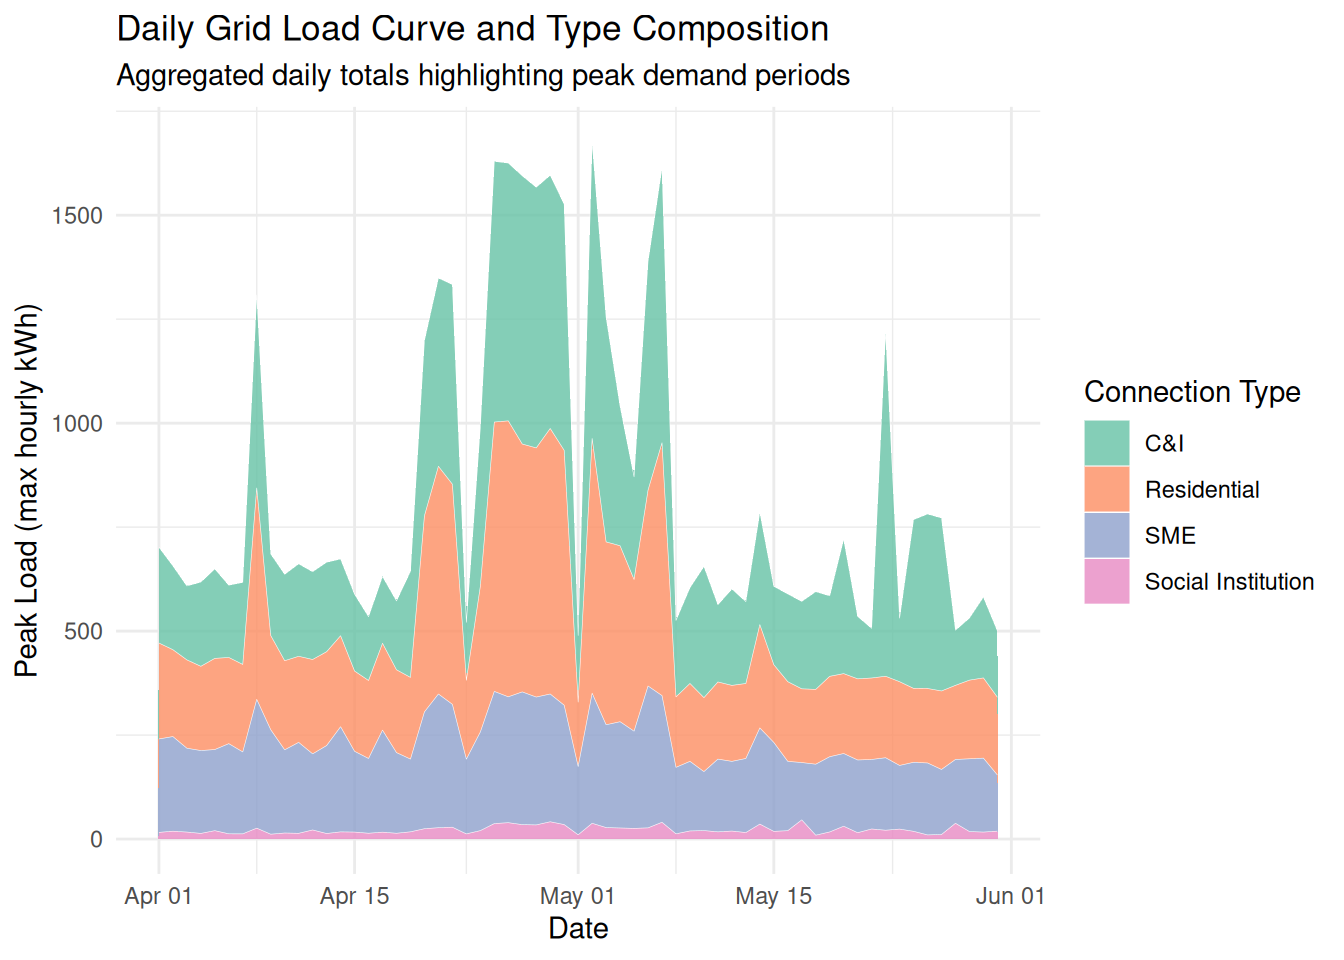
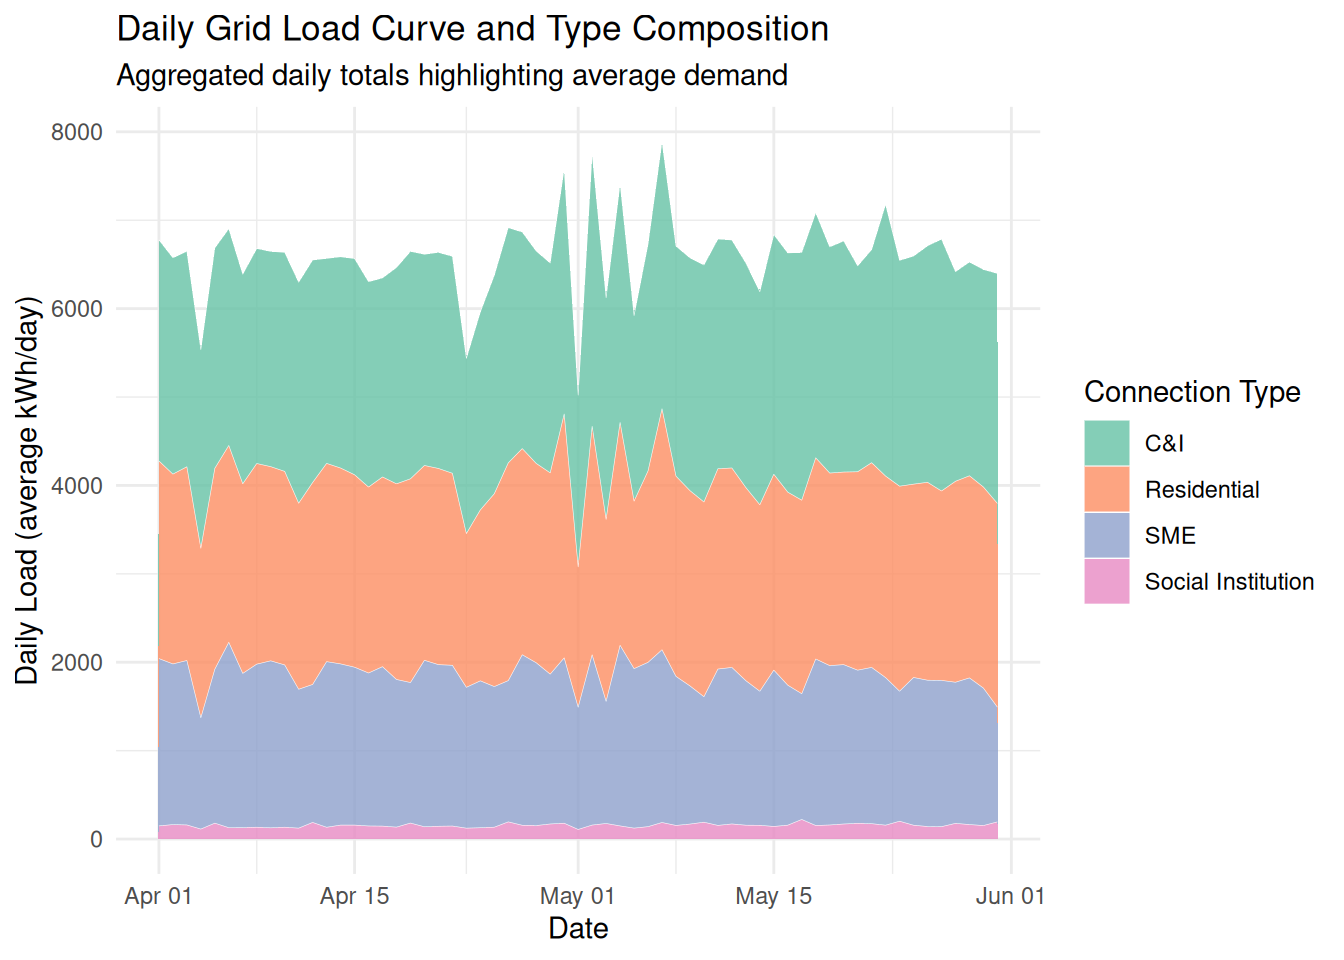
Finished written portion to go along with figures.

diff --git a/docs/index.html b/docs/index.html
@@ -547,7 +547,7 @@ $ `Daily kWh`          &lt;dbl&gt; 107.9200000, 0.0000000, 331.7800000, 333.8200
 <span id="cb12-7"><a href="#cb12-7" aria-hidden="true" tabindex="-1"></a>  <span class="fu">labs</span>(<span class="at">title =</span> <span class="st">"Small Medium Enterprises"</span>, <span class="at">x =</span> <span class="st">"Type"</span>, <span class="at">y =</span> <span class="st">"Daily kWh"</span>) <span class="sc">+</span></span>
 <span id="cb12-8"><a href="#cb12-8" aria-hidden="true" tabindex="-1"></a>  <span class="fu">theme_minimal</span>()<span class="sc">+</span></span>
 <span id="cb12-9"><a href="#cb12-9" aria-hidden="true" tabindex="-1"></a>  <span class="fu">theme</span>(<span class="at">axis.text.x =</span> <span class="fu">element_text</span>(<span class="at">angle =</span> <span class="dv">45</span>, <span class="at">hjust =</span> <span class="dv">1</span>) </span>
-<span id="cb12-10"><a href="#cb12-10" aria-hidden="true" tabindex="-1"></a>  )</span></code></pre></div><button title="Copy to Clipboard" class="code-copy-button"><i class="bi"></i></button></div>
+<span id="cb12-10"><a href="#cb12-10" aria-hidden="true" tabindex="-1"></a>  ) </span></code></pre></div><button title="Copy to Clipboard" class="code-copy-button"><i class="bi"></i></button></div>
 <div class="cell-output-display">
 <div>
 <figure class="figure">
@@ -617,7 +617,7 @@ $ `Daily kWh`          &lt;dbl&gt; 107.9200000, 0.0000000, 331.7800000, 333.8200
 <span id="cb15-16"><a href="#cb15-16" aria-hidden="true" tabindex="-1"></a>  <span class="fu">geom_text</span>(</span>
 <span id="cb15-17"><a href="#cb15-17" aria-hidden="true" tabindex="-1"></a>    <span class="fu">aes</span>(<span class="at">y =</span> label_pos, <span class="at">label =</span> <span class="fu">percent</span>(percentage, <span class="at">accuracy =</span> <span class="fl">0.1</span>)), </span>
 <span id="cb15-18"><a href="#cb15-18" aria-hidden="true" tabindex="-1"></a>    <span class="at">size =</span> <span class="dv">4</span>, </span>
-<span id="cb15-19"><a href="#cb15-19" aria-hidden="true" tabindex="-1"></a>    <span class="at">color =</span> <span class="st">"black"</span></span>
+<span id="cb15-19"><a href="#cb15-19" aria-hidden="true" tabindex="-1"></a>    <span class="at">color =</span> <span class="st">"black"</span>, </span>
 <span id="cb15-20"><a href="#cb15-20" aria-hidden="true" tabindex="-1"></a>  ) <span class="sc">+</span></span>
 <span id="cb15-21"><a href="#cb15-21" aria-hidden="true" tabindex="-1"></a>  </span>
 <span id="cb15-22"><a href="#cb15-22" aria-hidden="true" tabindex="-1"></a>  <span class="co"># Clean up the background grid and axis lines from standard ggplot</span></span>
@@ -630,7 +630,7 @@ $ `Daily kWh`          &lt;dbl&gt; 107.9200000, 0.0000000, 331.7800000, 333.8200
 <span id="cb15-29"><a href="#cb15-29" aria-hidden="true" tabindex="-1"></a>  <span class="fu">theme</span>(</span>
 <span id="cb15-30"><a href="#cb15-30" aria-hidden="true" tabindex="-1"></a>    <span class="at">plot.title =</span> <span class="fu">element_text</span>(<span class="at">face =</span> <span class="st">"bold"</span>, <span class="at">hjust =</span> <span class="fl">0.5</span>, <span class="at">size =</span> <span class="dv">14</span>),</span>
 <span id="cb15-31"><a href="#cb15-31" aria-hidden="true" tabindex="-1"></a>    <span class="at">plot.subtitle =</span> <span class="fu">element_text</span>(<span class="at">hjust =</span> <span class="fl">0.5</span>, <span class="at">color =</span> <span class="st">"gray40"</span>)</span>
-<span id="cb15-32"><a href="#cb15-32" aria-hidden="true" tabindex="-1"></a>  )</span></code></pre></div><button title="Copy to Clipboard" class="code-copy-button"><i class="bi"></i></button></div>
+<span id="cb15-32"><a href="#cb15-32" aria-hidden="true" tabindex="-1"></a>  ) </span></code></pre></div><button title="Copy to Clipboard" class="code-copy-button"><i class="bi"></i></button></div>
 <div class="cell-output-display">
 <div>
 <figure class="figure">
@@ -639,21 +639,70 @@ $ `Daily kWh`          &lt;dbl&gt; 107.9200000, 0.0000000, 331.7800000, 333.8200
 </div>
 </div>
 </div>
-<p>Even though C&amp;I have the largest daily kWh usage, SME accounts for the largest share of energy use, followed by Residential and C&amp;I based on the sheer number of households and SMEs compared to the larger industrial partners.</p>
-<p>It’s also important to understand the peak kWh values to right-size the grid. This comes from the max kWh/h values, taking the maximum load during the highest use point during the day. Let’s first group by day, then sum the value per day and see the composition from different types. This will give insights for the peak rated value for the grid (kWp) and potential back-up sources like diesel gen-sets and hydropower partnerships.</p>
+<p>Even though C&amp;I have the largest daily kWh usage, SME accounts for the largest share of energy use, followed by Residential and C&amp;I based on the sheer number of households and SMEs compared to the larger industrial partners. Let’s create one more stacked chart to examine the daily kWh trends over time by type.</p>
 <div class="cell">
 <div class="code-copy-outer-scaffold"><div class="sourceCode cell-code" id="cb16"><pre class="sourceCode r code-with-copy"><code class="sourceCode r"><span id="cb16-1"><a href="#cb16-1" aria-hidden="true" tabindex="-1"></a><span class="co"># Calculate total max consumption during the peak load as a worst case</span></span>
-<span id="cb16-2"><a href="#cb16-2" aria-hidden="true" tabindex="-1"></a>daily_composition <span class="ot">&lt;-</span> summary_by_group <span class="sc">%&gt;%</span></span>
+<span id="cb16-2"><a href="#cb16-2" aria-hidden="true" tabindex="-1"></a>daily_total_composition <span class="ot">&lt;-</span> summary_by_group <span class="sc">%&gt;%</span></span>
 <span id="cb16-3"><a href="#cb16-3" aria-hidden="true" tabindex="-1"></a>  <span class="co"># Keep only the rows where the peak load value is not zero</span></span>
-<span id="cb16-4"><a href="#cb16-4" aria-hidden="true" tabindex="-1"></a>  <span class="fu">filter</span>(kWh_avg_max <span class="sc">!=</span> <span class="dv">0</span>) <span class="sc">%&gt;%</span></span>
+<span id="cb16-4"><a href="#cb16-4" aria-hidden="true" tabindex="-1"></a>  <span class="fu">filter</span>(kWh_per_day <span class="sc">!=</span> <span class="dv">0</span>) <span class="sc">%&gt;%</span></span>
 <span id="cb16-5"><a href="#cb16-5" aria-hidden="true" tabindex="-1"></a>  <span class="fu">group_by</span>(Date, customer_type) <span class="sc">%&gt;%</span></span>
 <span id="cb16-6"><a href="#cb16-6" aria-hidden="true" tabindex="-1"></a>  <span class="fu">summarise</span>(</span>
-<span id="cb16-7"><a href="#cb16-7" aria-hidden="true" tabindex="-1"></a>    <span class="at">Max_kWh_peak =</span> <span class="fu">sum</span>(kWh_avg_max, <span class="at">na.rm =</span> <span class="cn">TRUE</span>),</span>
+<span id="cb16-7"><a href="#cb16-7" aria-hidden="true" tabindex="-1"></a>    <span class="at">Total_kWh_avg =</span> <span class="fu">sum</span>(kWh_per_day, <span class="at">na.rm =</span> <span class="cn">TRUE</span>),</span>
 <span id="cb16-8"><a href="#cb16-8" aria-hidden="true" tabindex="-1"></a>    <span class="at">.groups =</span> <span class="st">"drop"</span></span>
 <span id="cb16-9"><a href="#cb16-9" aria-hidden="true" tabindex="-1"></a>  )</span>
 <span id="cb16-10"><a href="#cb16-10" aria-hidden="true" tabindex="-1"></a></span>
-<span id="cb16-11"><a href="#cb16-11" aria-hidden="true" tabindex="-1"></a><span class="co"># Preview the daily kWh peak values for each type</span></span>
-<span id="cb16-12"><a href="#cb16-12" aria-hidden="true" tabindex="-1"></a><span class="fu">print</span>(daily_composition)</span></code></pre></div><button title="Copy to Clipboard" class="code-copy-button"><i class="bi"></i></button></div>
+<span id="cb16-11"><a href="#cb16-11" aria-hidden="true" tabindex="-1"></a><span class="co"># Preview the daily kWh values for each type</span></span>
+<span id="cb16-12"><a href="#cb16-12" aria-hidden="true" tabindex="-1"></a><span class="fu">print</span>(daily_total_composition)</span></code></pre></div><button title="Copy to Clipboard" class="code-copy-button"><i class="bi"></i></button></div>
+<div class="cell-output cell-output-stdout">
+<pre><code># A tibble: 244 × 3
+   Date                customer_type      Total_kWh_avg
+   &lt;dttm&gt;              &lt;chr&gt;                      &lt;dbl&gt;
+ 1 2026-04-01 00:00:00 C&amp;I                        2501.
+ 2 2026-04-01 00:00:00 Residential                2235.
+ 3 2026-04-01 00:00:00 SME                        1893.
+ 4 2026-04-01 00:00:00 Social Institution          149.
+ 5 2026-04-02 00:00:00 C&amp;I                        2447.
+ 6 2026-04-02 00:00:00 Residential                2147.
+ 7 2026-04-02 00:00:00 SME                        1817.
+ 8 2026-04-02 00:00:00 Social Institution          164.
+ 9 2026-04-03 00:00:00 C&amp;I                        2438.
[phone redacted]:00:00 Residential                2191.
+# ℹ 234 more rows</code></pre>
+</div>
+<div class="code-copy-outer-scaffold"><div class="sourceCode cell-code" id="cb18"><pre class="sourceCode r code-with-copy"><code class="sourceCode r"><span id="cb18-1"><a href="#cb18-1" aria-hidden="true" tabindex="-1"></a><span class="co"># Plot the chart with daily composition separated by type</span></span>
+<span id="cb18-2"><a href="#cb18-2" aria-hidden="true" tabindex="-1"></a><span class="fu">ggplot</span>(daily_total_composition, <span class="fu">aes</span>(<span class="at">x =</span> Date, <span class="at">y =</span> Total_kWh_avg, <span class="at">fill =</span> customer_type)) <span class="sc">+</span></span>
+<span id="cb18-3"><a href="#cb18-3" aria-hidden="true" tabindex="-1"></a>  <span class="fu">geom_area</span>(<span class="at">alpha =</span> <span class="fl">0.8</span>, <span class="at">color =</span> <span class="st">"white"</span>, <span class="at">linewidth =</span> <span class="fl">0.1</span>) <span class="sc">+</span></span>
+<span id="cb18-4"><a href="#cb18-4" aria-hidden="true" tabindex="-1"></a>  <span class="fu">labs</span>(</span>
+<span id="cb18-5"><a href="#cb18-5" aria-hidden="true" tabindex="-1"></a>    <span class="at">title =</span> <span class="st">"Daily Grid Load Curve and Type Composition"</span>,</span>
+<span id="cb18-6"><a href="#cb18-6" aria-hidden="true" tabindex="-1"></a>    <span class="at">subtitle =</span> <span class="st">"Aggregated daily totals highlighting average demand"</span>,</span>
+<span id="cb18-7"><a href="#cb18-7" aria-hidden="true" tabindex="-1"></a>    <span class="at">x =</span> <span class="st">"Date"</span>,</span>
+<span id="cb18-8"><a href="#cb18-8" aria-hidden="true" tabindex="-1"></a>    <span class="at">y =</span> <span class="st">"Daily Load (average kWh/day)"</span>,</span>
+<span id="cb18-9"><a href="#cb18-9" aria-hidden="true" tabindex="-1"></a>    <span class="at">fill =</span> <span class="st">"Connection Type"</span></span>
+<span id="cb18-10"><a href="#cb18-10" aria-hidden="true" tabindex="-1"></a>  ) <span class="sc">+</span></span>
+<span id="cb18-11"><a href="#cb18-11" aria-hidden="true" tabindex="-1"></a>  <span class="fu">theme_minimal</span>() <span class="sc">+</span></span>
+<span id="cb18-12"><a href="#cb18-12" aria-hidden="true" tabindex="-1"></a>  <span class="fu">scale_fill_brewer</span>(<span class="at">palette =</span> <span class="st">"Set2"</span>) </span></code></pre></div><button title="Copy to Clipboard" class="code-copy-button"><i class="bi"></i></button></div>
+<div class="cell-output-display">
+<div>
+<figure class="figure">
+<p><img src="index_files/figure-html/unnamed-chunk-12-1.png" class="img-fluid figure-img" alt="A stacked chart showing average energy loads across calendar days, filtered to exclude rows with zero daily load. Each bar represents a single day's total consumption, color-coded by connection type to illustrate contribution to daily load." width="672"></p>
+</figure>
+</div>
+</div>
+</div>
+<p>It’s also important to understand the peak kWh values to right-size the grid. This comes from the max kWh/h values, taking the maximum load during the highest use point during the day. Let’s first group by day, then sum the value per day and see the composition from different types. This will give insights for the peak rated value for the grid (kWp) and potential back-up sources like diesel gen-sets and hydropower partnerships.</p>
+<div class="cell">
+<div class="code-copy-outer-scaffold"><div class="sourceCode cell-code" id="cb19"><pre class="sourceCode r code-with-copy"><code class="sourceCode r"><span id="cb19-1"><a href="#cb19-1" aria-hidden="true" tabindex="-1"></a><span class="co"># Calculate total max consumption during the peak load as a worst case</span></span>
+<span id="cb19-2"><a href="#cb19-2" aria-hidden="true" tabindex="-1"></a>daily_composition <span class="ot">&lt;-</span> summary_by_group <span class="sc">%&gt;%</span></span>
+<span id="cb19-3"><a href="#cb19-3" aria-hidden="true" tabindex="-1"></a>  <span class="co"># Keep only the rows where the peak load value is not zero</span></span>
+<span id="cb19-4"><a href="#cb19-4" aria-hidden="true" tabindex="-1"></a>  <span class="fu">filter</span>(kWh_avg_max <span class="sc">!=</span> <span class="dv">0</span>) <span class="sc">%&gt;%</span></span>
+<span id="cb19-5"><a href="#cb19-5" aria-hidden="true" tabindex="-1"></a>  <span class="fu">group_by</span>(Date, customer_type) <span class="sc">%&gt;%</span></span>
+<span id="cb19-6"><a href="#cb19-6" aria-hidden="true" tabindex="-1"></a>  <span class="fu">summarise</span>(</span>
+<span id="cb19-7"><a href="#cb19-7" aria-hidden="true" tabindex="-1"></a>    <span class="at">Max_kWh_peak =</span> <span class="fu">sum</span>(kWh_avg_max, <span class="at">na.rm =</span> <span class="cn">TRUE</span>),</span>
+<span id="cb19-8"><a href="#cb19-8" aria-hidden="true" tabindex="-1"></a>    <span class="at">.groups =</span> <span class="st">"drop"</span></span>
+<span id="cb19-9"><a href="#cb19-9" aria-hidden="true" tabindex="-1"></a>  )</span>
+<span id="cb19-10"><a href="#cb19-10" aria-hidden="true" tabindex="-1"></a></span>
+<span id="cb19-11"><a href="#cb19-11" aria-hidden="true" tabindex="-1"></a><span class="co"># Preview the daily kWh peak values for each type</span></span>
+<span id="cb19-12"><a href="#cb19-12" aria-hidden="true" tabindex="-1"></a><span class="fu">print</span>(daily_composition)</span></code></pre></div><button title="Copy to Clipboard" class="code-copy-button"><i class="bi"></i></button></div>
 <div class="cell-output cell-output-stdout">
 <pre><code># A tibble: 244 × 3
    Date                customer_type      Max_kWh_peak
@@ -670,22 +719,22 @@ $ `Daily kWh`          &lt;dbl&gt; 107.9200000, 0.0000000, 331.7800000, 333.8200
 10 2026-04-03 00:00:00 Residential               212. 
 # ℹ 234 more rows</code></pre>
 </div>
-<div class="code-copy-outer-scaffold"><div class="sourceCode cell-code" id="cb18"><pre class="sourceCode r code-with-copy"><code class="sourceCode r"><span id="cb18-1"><a href="#cb18-1" aria-hidden="true" tabindex="-1"></a><span class="co"># Plot the chart with daily composition separated by type</span></span>
-<span id="cb18-2"><a href="#cb18-2" aria-hidden="true" tabindex="-1"></a><span class="fu">ggplot</span>(daily_composition, <span class="fu">aes</span>(<span class="at">x =</span> Date, <span class="at">y =</span> Max_kWh_peak, <span class="at">fill =</span> customer_type)) <span class="sc">+</span></span>
-<span id="cb18-3"><a href="#cb18-3" aria-hidden="true" tabindex="-1"></a>  <span class="fu">geom_area</span>(<span class="at">alpha =</span> <span class="fl">0.8</span>, <span class="at">color =</span> <span class="st">"white"</span>, <span class="at">linewidth =</span> <span class="fl">0.1</span>) <span class="sc">+</span></span>
-<span id="cb18-4"><a href="#cb18-4" aria-hidden="true" tabindex="-1"></a>  <span class="fu">labs</span>(</span>
-<span id="cb18-5"><a href="#cb18-5" aria-hidden="true" tabindex="-1"></a>    <span class="at">title =</span> <span class="st">"Daily Grid Load Curve and Type Composition"</span>,</span>
-<span id="cb18-6"><a href="#cb18-6" aria-hidden="true" tabindex="-1"></a>    <span class="at">subtitle =</span> <span class="st">"Aggregated daily totals highlighting peak demand periods"</span>,</span>
-<span id="cb18-7"><a href="#cb18-7" aria-hidden="true" tabindex="-1"></a>    <span class="at">x =</span> <span class="st">"Date"</span>,</span>
-<span id="cb18-8"><a href="#cb18-8" aria-hidden="true" tabindex="-1"></a>    <span class="at">y =</span> <span class="st">"Peak Load (max hourly kWh)"</span>,</span>
-<span id="cb18-9"><a href="#cb18-9" aria-hidden="true" tabindex="-1"></a>    <span class="at">fill =</span> <span class="st">"Connection Type"</span></span>
-<span id="cb18-10"><a href="#cb18-10" aria-hidden="true" tabindex="-1"></a>  ) <span class="sc">+</span></span>
-<span id="cb18-11"><a href="#cb18-11" aria-hidden="true" tabindex="-1"></a>  <span class="fu">theme_minimal</span>() <span class="sc">+</span></span>
-<span id="cb18-12"><a href="#cb18-12" aria-hidden="true" tabindex="-1"></a>  <span class="fu">scale_fill_brewer</span>(<span class="at">palette =</span> <span class="st">"Set2"</span>) </span></code></pre></div><button title="Copy to Clipboard" class="code-copy-button"><i class="bi"></i></button></div>
+<div class="code-copy-outer-scaffold"><div class="sourceCode cell-code" id="cb21"><pre class="sourceCode r code-with-copy"><code class="sourceCode r"><span id="cb21-1"><a href="#cb21-1" aria-hidden="true" tabindex="-1"></a><span class="co"># Plot the chart with daily composition separated by type</span></span>
+<span id="cb21-2"><a href="#cb21-2" aria-hidden="true" tabindex="-1"></a><span class="fu">ggplot</span>(daily_composition, <span class="fu">aes</span>(<span class="at">x =</span> Date, <span class="at">y =</span> Max_kWh_peak, <span class="at">fill =</span> customer_type)) <span class="sc">+</span></span>
+<span id="cb21-3"><a href="#cb21-3" aria-hidden="true" tabindex="-1"></a>  <span class="fu">geom_area</span>(<span class="at">alpha =</span> <span class="fl">0.8</span>, <span class="at">color =</span> <span class="st">"white"</span>, <span class="at">linewidth =</span> <span class="fl">0.1</span>) <span class="sc">+</span></span>
+<span id="cb21-4"><a href="#cb21-4" aria-hidden="true" tabindex="-1"></a>  <span class="fu">labs</span>(</span>
+<span id="cb21-5"><a href="#cb21-5" aria-hidden="true" tabindex="-1"></a>    <span class="at">title =</span> <span class="st">"Peak Grid Load Curve and Type Composition"</span>,</span>
+<span id="cb21-6"><a href="#cb21-6" aria-hidden="true" tabindex="-1"></a>    <span class="at">subtitle =</span> <span class="st">"Aggregated hourly totals highlighting peak demand periods"</span>,</span>
+<span id="cb21-7"><a href="#cb21-7" aria-hidden="true" tabindex="-1"></a>    <span class="at">x =</span> <span class="st">"Date"</span>,</span>
+<span id="cb21-8"><a href="#cb21-8" aria-hidden="true" tabindex="-1"></a>    <span class="at">y =</span> <span class="st">"Peak Load (max hourly kWh)"</span>,</span>
+<span id="cb21-9"><a href="#cb21-9" aria-hidden="true" tabindex="-1"></a>    <span class="at">fill =</span> <span class="st">"Connection Type"</span></span>
+<span id="cb21-10"><a href="#cb21-10" aria-hidden="true" tabindex="-1"></a>  ) <span class="sc">+</span></span>
+<span id="cb21-11"><a href="#cb21-11" aria-hidden="true" tabindex="-1"></a>  <span class="fu">theme_minimal</span>() <span class="sc">+</span></span>
+<span id="cb21-12"><a href="#cb21-12" aria-hidden="true" tabindex="-1"></a>  <span class="fu">scale_fill_brewer</span>(<span class="at">palette =</span> <span class="st">"Set2"</span>) </span></code></pre></div><button title="Copy to Clipboard" class="code-copy-button"><i class="bi"></i></button></div>
 <div class="cell-output-display">
 <div>
 <figure class="figure">
-<p><img src="index_files/figure-html/unnamed-chunk-12-1.png" class="img-fluid figure-img" alt="A stacked chart showing total daily energy loads across calendar days, filtered to exclude rows with zero peak load. Each bar represents a single day's total consumption, color-coded by connection type to illustrate contribution to peak load." width="672"></p>
+<p><img src="index_files/figure-html/unnamed-chunk-13-1.png" class="img-fluid figure-img" alt="A stacked chart showing total daily energy loads across calendar days, filtered to exclude rows with zero peak load. Each bar represents a single day's highest consumption, color-coded by connection type to illustrate contribution to peak load." width="672"></p>
 </figure>
 </div>
 </div>
@@ -694,18 +743,14 @@ $ `Daily kWh`          &lt;dbl&gt; 107.9200000, 0.0000000, 331.7800000, 333.8200
 </section>
 <section id="conclusions" class="level1">
 <h1>Conclusions</h1>
-<section id="the-data-has-shown-the-following-trends-and-considerations" class="level2">
-<h2 class="anchored" data-anchor-id="the-data-has-shown-the-following-trends-and-considerations">The data has shown the following trends and considerations:</h2>
-<ul>
-<li></li>
-</ul>
-</section>
+<p>The data has shown the following trends and considerations: The 2 months of data showed a generally consistent daily load, but the peak load varied significantly during the time frame. C&amp;Is made up a significant amount of the daily kWh demand per customer, but was actually slightly less total demand (26%) than SMEs (38%) and residential (33%) customers due to the number of clients total. Social Institutions were a small portion of daily demand (2%). SMEs were primarily uncategorized, and there was a huge spread in mean for SME categories that exist, especially highlighting the higher end of demand for Mills and Factories. Social Institution categories were much more consistent at &lt;5kWh/day, but there were several categories with very few customers. It was not possible to make claims for general seasonal or year-long trends due to the limited time frame of the data.</p>
 <section id="summary-of-findings" class="level2">
 <h2 class="anchored" data-anchor-id="summary-of-findings">Summary of Findings</h2>
+<p>The evidence presented above gives substantiation for separating out the daily and peak demand profiles for different categories of customers, especially in the C&amp;I (largest by-category demand) and SME (broadest range of demand) assumptions. These considerations will allow for more accurate forecasting of demand for right-sizing future mini-grids in this region by ensuring peak load cases are accurately predicted and total daily demand is allocated correctly.</p>
 </section>
 <section id="questions-and-next-steps" class="level2">
 <h2 class="anchored" data-anchor-id="questions-and-next-steps">Questions and Next Steps</h2>
-<p>With a huge proportion of SMEs still uncategorized (NA), it is difficult to get accurate power consumption values from this which would be beneficial to scale based on the number of customers. Since there are some SME categories that differ significantly in power consumption, it is important to have as much granularity as possilbe to set predicted consumption values.</p>
+<p>With a huge proportion of SMEs still uncategorized (NA), it is difficult to get accurate power consumption values from this which would be beneficial to scale based on the number of customers. Since there are some SME categories that differ significantly in power consumption, it is important to have as much granularity as possible to set predicted consumption values.</p>
 <p>It would be good to understand the seasonal variation in power consumption, which will require sourcing more data over time. In addition, it would be interesting to review this data every year to see if average power consumption for residences and SMEs is increasing based on more reliable and affordable access to energy (such as buying more appliances etc.)</p>
 <p>Finally, all of this data is from one site in DRC. Ideally, many sites would be included for comparison of regional consumption and see trends in types of customers.</p>
 </section>